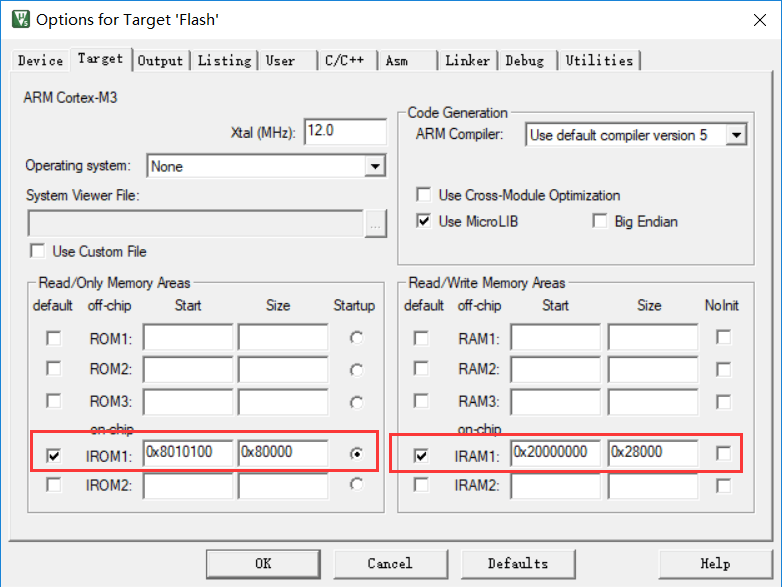
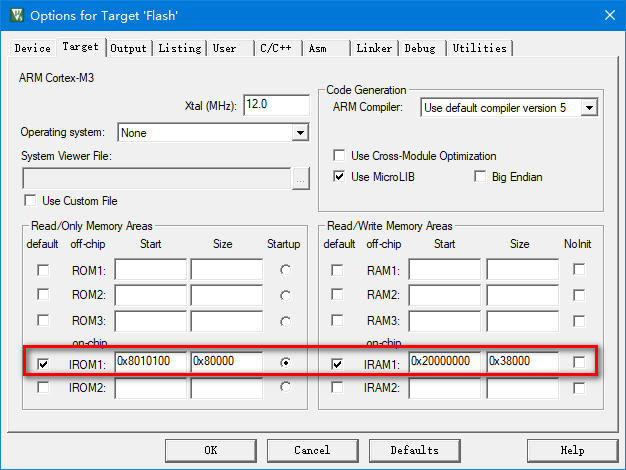
update url.

diff --git a/zh/app/swd.md b/zh/app/swd.md
@@ -44,7 +44,7 @@ Target打开对话框，切换到Target标签界面，配置芯片的Flash 和 R
 
 IROM1: Start-0x8010100, Size-0x80000;
 
-IROM2: Start-0x20000000,Size-0x28000;
+IROM2: Start-0x20000000,Size-0x38000;
 
 注意，配置的地址范围不能超过芯片的实际大小；
 
@@ -52,10 +52,7 @@ IROM2: Start-0x20000000,Size-0x28000;
 
 ### 3.配置优化等级
 
-工具栏，选择 Project-\>Options for Target 打开对话框，切换到
-C/C++标签界面，如果需要在线调试跟踪程序必须将优化等级设置为 Level
-0，否则开启优化后的代码实时运行逻辑和实际代码组织结构间存在差异，影
-响调试。
+工具栏，选择 Project-\>Options for Target 打开对话框，切换到C/C++标签界面，如果需要在线调试跟踪程序必须将优化等级设置为 Level0，否则开启优化后的代码实时运行逻辑和实际代码组织结构间存在差异，影响调试。
 
 ![image](../.assets/app/swd/1547488404924.png)
 
@@ -86,30 +83,23 @@ RAM 中运行程序。
 
 ### 5.Utilities 配置
 
-1.  将 W60X Flash 驱动拷贝到 KEI 安装目录的\\ARM\\Flash 目录中2. 选择
-    Project-\>Options for Target 打开对话框，切换到 Utilities 标签界面
-    ，按下图选择12，在 3 的下拉框中选择使用的仿真器必须与 Debug
-    标签中的选择
+1.  将 W60X Flash 驱动拷贝到 KEI 安装目录的\\ARM\\Flash 目录中2. 选择Project-\>Options for Target 打开对话框，切换到 Utilities 标签界面，按下图选择12，在 3 的下拉框中选择使用的仿真器必须与 Debug标签中的选择
 
 ![image](../.assets/app/swd/1547516288023.png)
 
-上图中，点击 Setting，如下图 Flash Download 标签中配置 RAM 和 Flash
-参数必须与前面配置的地址 一致，点击 Add 按钮选择 W60X 芯片的 Flash
-驱动。
+上图中，点击 Setting，如下图 Flash Download 标签中配置 RAM 和 Flash参数必须与前面配置的地址 一致，点击 Add 按钮选择 W60X 芯片的 Flash驱动。[W60x Flash驱动下载地址](https://github.com/w600/W600_QFLASH_Driver_for_SWD)
 
 ![image](../.assets/app/swd/1547516488553.png)
 
-接上图切换到 Debug 标签，如下图按 1 的方式选择调试器接口，正确检测到
-W60X 芯片后会显示框 2 中 的芯片信息。
+接上图切换到 Debug 标签，如下图按 1 的方式选择调试器接口，正确检测到W60X 芯片后会显示框 2 中 的芯片信息。
 
 ![image](../.assets/app/swd/1547516665930.png)
 
-最后选择确定逐级保存所有配。
+最后选择确定逐级保存所有配置。
 
 ## 五、调试
 
-完成 Keil 环境配置，编译程序无误后，选择 Debug-\>Start/Stop Debug
-Session 或 CTRL+F5，进行程 序的在线调试。
+完成 Keil 环境配置，编译程序无误后，选择 Debug-\>Start/Stop Debug Session 或 CTRL+F5，进行程序的在线调试。
 
 ![image](../.assets/app/swd/1547516753228.png)
 

diff --git a/zh/faq/index.md b/zh/faq/index.md
@@ -6,7 +6,19 @@
 
 　　W600是联盛德新一代支持多接口、多协议的无线局域网802.11n（1T1R）低功耗WLAN SoC 芯片。芯片内置 Cortex-M3 CPU处理器和Flash，集成射频收发前端RFTransceiver，CMOSPA功率放大器，基带处理器/媒体访问控制，集成电源管理电路，支持丰富的外围接口，支持多种加解密协议。W600提供给客户的二次开发空间更大、芯片外围电路器件更少、开发更简便，性价比更优势。
 
-### 联盛德与星通智联是什么关系
+### W601和W600有什么区别？
+
+W601和W600同属于联盛德W600系列WiFi芯片，主要区别如下：
+
+| 属性   | W600      | W601      |
+| ------ | --------- | --------- |
+| 封装   | QFN32 5*5 | QFN68 7*7 |
+| 可用IO | 17        | 48        |
+| ADC    | 无        | 8个       |
+| LCD    | 无        | 1个       |
+| I2S    | 无MCLK    | 完整      |
+
+### 联盛德与星通智联是什么关系？
 
 　　联盛德是W600的芯片设计和生产厂商，星通智联是联盛德的芯片代理商和方案供应商。
 

diff --git a/zh/at/esp-start.md b/zh/at/esp-start.md
@@ -9,6 +9,7 @@
 -   固件：[AT兼容固件](https://download.w600.fun/firmware/thingsturn_w600_at_v1.1.6_20190304.7z)
 -   硬件：TB-01开发板 或 W600系列模组、开发板（[购买链接](http://shop.thingsturn.com/)）
 -   Micro USB线
+-   [兼容版本AT指令集手册](https://download.w600.fun/document/W600_%E5%85%BC%E5%AE%B9%E7%89%88AT%E6%8C%87%E4%BB%A4%E9%9B%86.pdf)
 
 ## 2 开发板介绍
 
@@ -301,4 +302,6 @@ OK
 [兼容版本AT固件](https://download.w600.fun/firmware/thingsturn_w600_at_v1.1.6_20190304.7z)
 [串口下载工具](https://download.w600.fun/tool/%E6%98%9F%E9%80%9A%E6%99%BA%E8%81%94%E4%B8%B2%E5%8F%A3%E8%B0%83%E8%AF%95%E4%B8%8B%E8%BD%BD%E5%8A%A9%E6%89%8B.7z)
 [网络调试助手](https://download.w600.fun/tool/NetAssist.exe)
+[兼容版本AT指令集手册](https://download.w600.fun/document/W600_%E5%85%BC%E5%AE%B9%E7%89%88AT%E6%8C%87%E4%BB%A4%E9%9B%86.pdf)
+[兼容版本AT指令集使用参考示例](https://download.w600.fun/document/W600_%E5%85%BC%E5%AE%B9%E7%89%88AT%E6%8C%87%E4%BB%A4%E5%8F%82%E8%80%83%E7%A4%BA%E4%BE%8B.pdf)
 

diff --git a/zh/app/trans.md b/zh/app/trans.md
@@ -10,8 +10,8 @@
 
 
 * [W600串口下载调试助手](https://download.w600.fun/tool/%E6%98%9F%E9%80%9A%E6%99%BA%E8%81%94%E4%B8%B2%E5%8F%A3%E8%B0%83%E8%AF%95%E4%B8%8B%E8%BD%BD%E5%8A%A9%E6%89%8B.7z)
-* [W600无线透传调试工具]()
-* [W600无线透传固件]()
+* [W600无线透传调试工具](https://download.w600.fun/tool/ThingsTurn_Wireless_Config_Tools.7z)
+* [W600无线透传固件](https://download.w600.fun/firmware/thingsturn_tb02_firmware_20190821.fls)
 * [TB-02 开发板](http://shop.thingsturn.com)  * 2
 * Windows PC * 1
 ### 固件烧录
@@ -167,15 +167,15 @@ COM1 配置为 【测试-TX】， COM2配置为 【测试-RX】
 
 **5 数据丢包** 
 
-	目前数据持续发送时，会存在丢包问题，此处仍需完善
+	目前数据持续发送时，会存在丢包问题，此处仍需完善。
 
 **6 功耗过大** 
 
-	待完善
+	待完善。
 
 **7 SPI功能** 
 
-	待完善
+	待完善。
 
 **8 是否开源** 
 

diff --git a/zh/at/wm-start.md b/zh/at/wm-start.md
@@ -13,7 +13,7 @@
 - 固件：[联盛德AT固件](https://download.w600.fun/firmware/at.fls)
 - 硬件：TB-01开发板 或 W600系列模组，开发板（[购买链接](http://shop.thingsturn.com)）
 - Micro USB线
-- 文档：AT指令用户手册
+- 文档：[WM_AT指令集手册](https://download.w600.fun/document/W60X_SDK_AT%E6%8C%87%E4%BB%A4%E7%94%A8%E6%88%B7%E6%89%8B%E5%86%8C.pdf)
 
 ## 步骤
 

diff --git a/zh/SUMMARY.md b/zh/SUMMARY.md
@@ -8,7 +8,7 @@
   * [TB-01 Wi-Fi 开发板](product/tb-01.md)
   * [TB-02 Wi-Fi 开发板](product/tb-02.md)
   * [正点原子 W601 全功能开发板](product/alientek.md)
-  * [W600 Arduino 开发板](product/arduino.md)
+  * [联盛德 W600 Arduino 开发板](product/arduino.md)
 * **AT指令**
   * [AT固件版本说明](at/version.md)
   * [兼容版本AT使用指南](at/esp-start.md)

diff --git a/zh/app/spi.md b/zh/app/spi.md
@@ -32,9 +32,9 @@ TB-01开发板 * 1
 
 | PIN  | STM32 | W600（SPI_0） |  W600（SPI_1）   |
 | :--: | :---: | :--: | :--: |
-| INT  |  PA2  | PB14 | PB08 |
-|  CS  |  PA4  | PB15 | PB09 |
-| CLK  |  PA5  | PB16 | PB10 |
+| INT  |  PA2  | PB14 | PB09 |
+|  CS  |  PA4  | PB15 | PB10 |
+| CLK  |  PA5  | PB16 | PB08 |
 | MOSI |  PA7  | PB17 | PB11 |
 | MISO |  PA6  | PB18 | PB12 |
 
